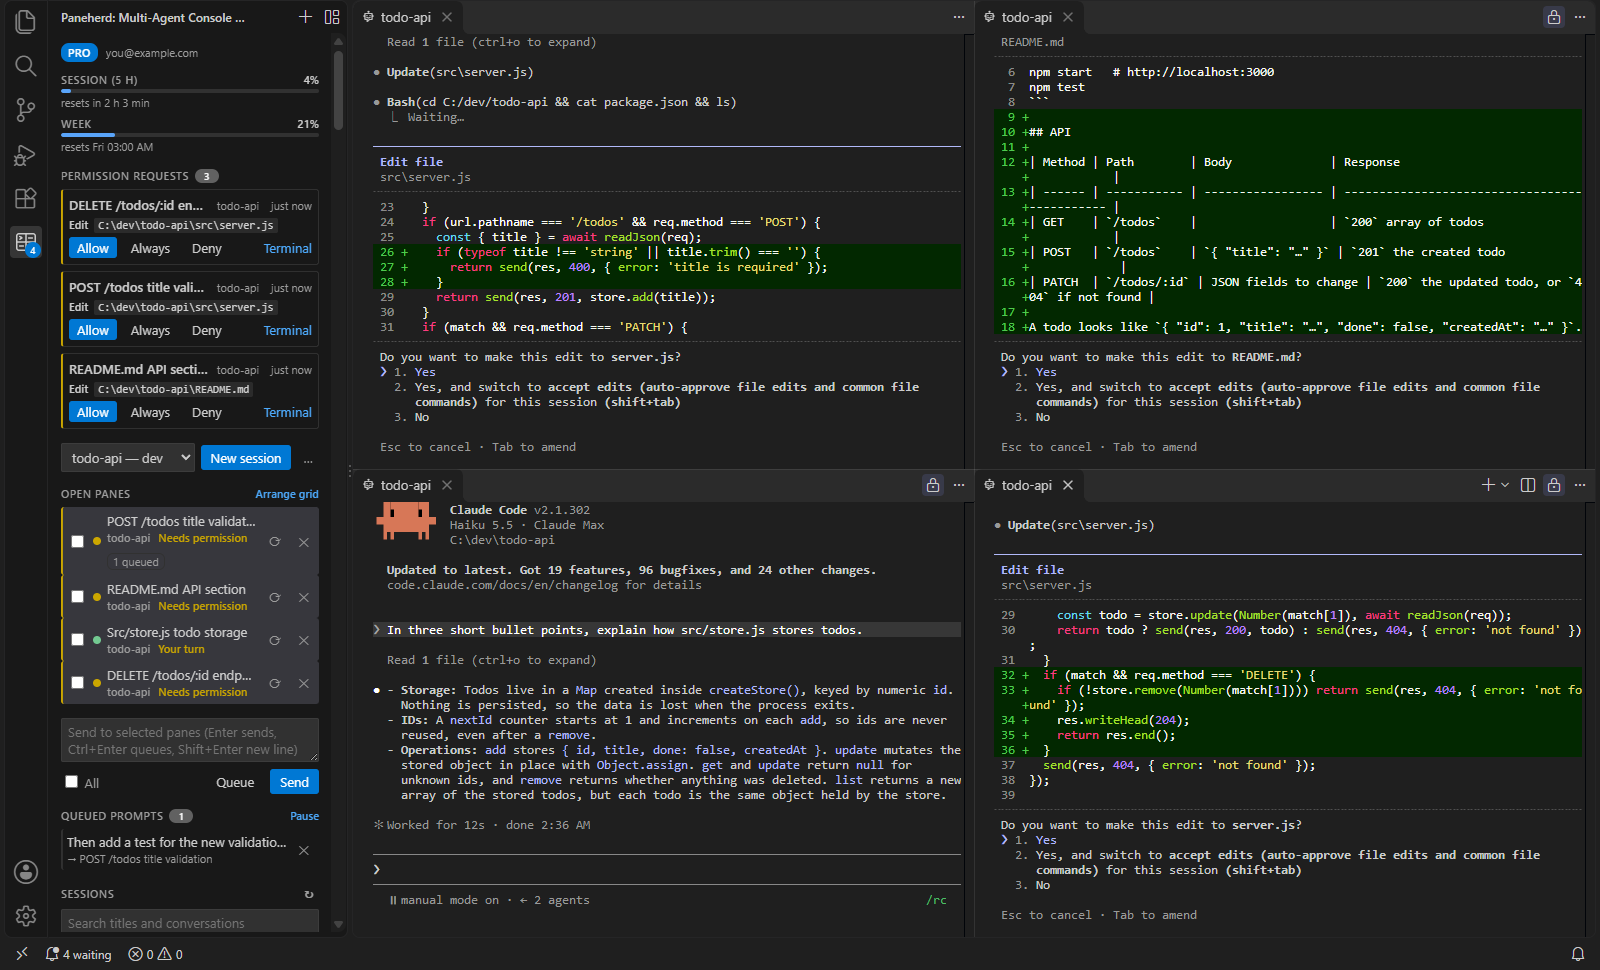
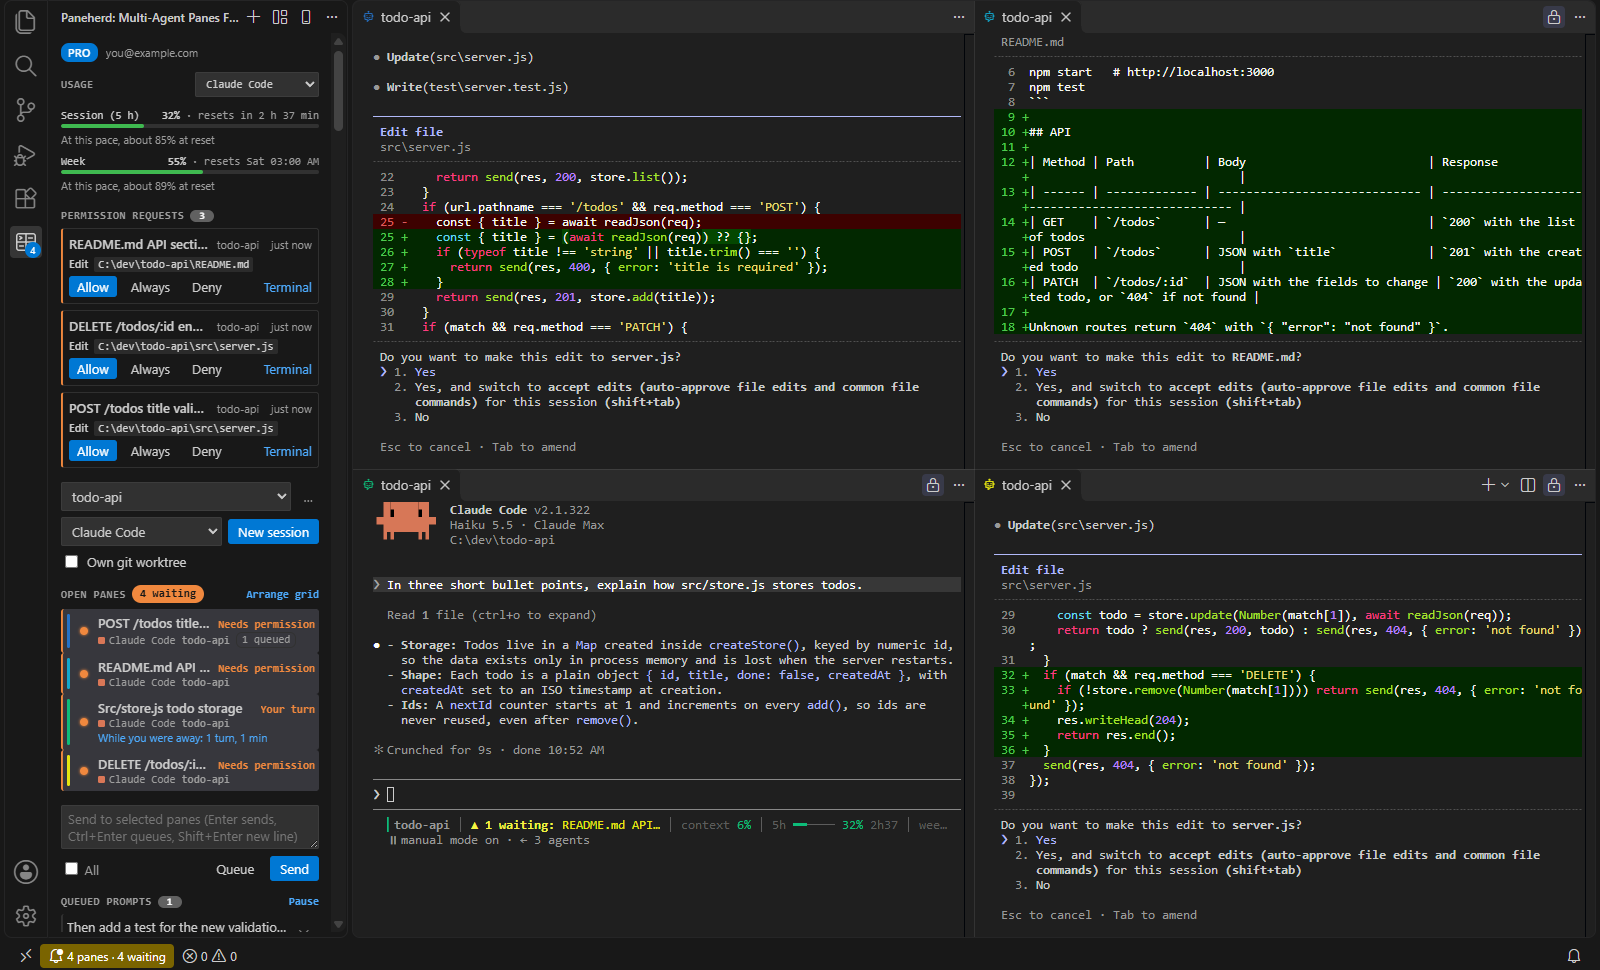
0.16.5: README, changelog and new screenshots and demo GIF
Claude-Session: https://claude.ai/code/session_018CJ6Lc5MSXJ5ZTTantg2qQ

diff --git a/README.md b/README.md
@@ -16,7 +16,8 @@ Website: [paneherd.com](https://paneherd.com/?utm_source=marketplace&utm_medium=
 
 - **Grid of sessions**: new sessions and resumed conversations open as editor-area terminals arranged in 1–4 columns. *Arrange Panes in a Grid* tidies them up at any time.
 - **Live status from Claude Code itself**: each pane shows *Working*, *Needs permission*, *Has a question*, *Your turn* or *Ended*. The status comes from Claude Code hook events, not from guessing at terminal output.
-- **Know who is waiting**: panes that need you are highlighted, counted on the sidebar badge and in the status bar. *Go to Next Pane That Needs You* jumps straight to them.
+- **Know who is waiting**: panes that need you are highlighted, counted on the sidebar badge, next to *Open panes* and in the status bar, which turns to the warning color while one waits. Click the count or run *Go to Next Pane That Needs You* to jump straight to them.
+- **A status line in every Claude Code pane**: the pane's name in its tab color, the other panes waiting for you, how full the context is, the session and week limits, and the model. Paneherd adds it only when neither you nor the project set a `statusLine`.
 - **Every saved conversation**: the sidebar lists your Claude Code sessions with their titles and last prompts, searchable by title, prompt or folder, and by what was said in the conversation. Matching messages appear under each session. It warns before you open a session that may still be running in another window. Filter the list by agent and by one or more project folders with the dropdowns above it.
 - **Usage limits at the top**: the sidebar shows how much of your Claude plan's current session (5 hours) and week you have used, and when each resets. Claude Code reports these to the status line on Pro and Max plans, after a pane's first reply. Codex's limits show under them, read from the session logs Codex keeps on this computer, and Copilot's monthly premium requests once you click *Connect GitHub* (see [How it works](#how-it-works)).
 - **Which pane uses the limit, and when it runs out (forecast: Pro)**: each pane shows roughly how much of the 5-hour session limit it has used. With Pro, a forecast under the session meter says when you hit the limit at the pace of the last 30 minutes, or where you will be when it resets. Both are estimated from the tokens in your local Claude Code transcripts, weighted by API prices. Usage that leaves no transcript on this computer (claude.ai, other machines) is counted against these sessions.
@@ -86,7 +87,7 @@ Pro is a one-time $2.99 purchase with a perpetual license key, sold at [paneherd
 
 Each pane runs `claude` with an extra `--settings` file that Paneherd writes for that pane. The file adds hooks for session start, prompt submit, tool use, permission requests, notifications, stop and session end. Your own hooks and settings stay in effect. The hooks run `curl` directly, without a shell, and post the event to a server inside the editor. That server listens only on `127.0.0.1` and checks a random per-window token.
 
-Two hooks wait for the server's answer: the permission request hook (so the sidebar can decide while Claude's own dialog is up; with no decision within an hour it steps aside) and the pre-tool-use hook (so the conflict guard can ask first). The pane's status line, when Paneherd adds one, posts Claude's status line input, which carries the usage limits. Paneherd adds it only when neither you nor the project set a `statusLine`, so yours is never replaced; with your own status line the limits are not shown.
+Two hooks wait for the server's answer: the permission request hook (so the sidebar can decide while Claude's own dialog is up; with no decision within an hour it steps aside) and the pre-tool-use hook (so the conflict guard can ask first). The pane's status line, when Paneherd adds one, posts Claude's status line input, which carries the usage limits, and prints the line the extension sends back. Paneherd adds it only when neither you nor the project set a `statusLine`, so yours is never replaced; with your own status line the limits are not shown.
 
 The Chrome companion connects to a second server in each editor window, which runs only after you pair a browser. It listens on `127.0.0.1`, on the first free port from 47470 to 47479, and accepts only browser extensions (by their origin) that paired with a one-time code shown in the editor, or that hold the token pairing gave them. *Disconnect Chrome Companions* revokes every browser.
 

diff --git a/CHANGELOG.md b/CHANGELOG.md
@@ -1,5 +1,14 @@
 # Changelog
 
+## 0.16.5
+
+- A new look for the sidebar. Each pane shows its status on the right of its title, in color, and its agent with a colored mark. The usage limits take one line each. Edit, Restart and Close show when you point at a pane, and the checkbox for sending a prompt sits where the status dot is.
+- **2 waiting** next to *Open panes* takes you to the next pane that needs you.
+- Status dots pulse while a pane works and glow while it waits for you. They stay still when your system asks for reduced motion, and high contrast themes get an outline instead of the glow.
+- Claude Code panes get a status line from Paneherd: the pane's name in its tab color, the other panes waiting for you, how full the context is, the session and week limits, and the model. Your own `statusLine` still wins.
+- The status bar counts panes, working panes, panes waiting for you and alarms, and turns to the warning color while a pane waits.
+- New theme colors `paneherd.ready`, `paneherd.working`, `paneherd.waiting` and `paneherd.error`, to change in `workbench.colorCustomizations`.
+
 ## 0.16.4
 
 - The Marketplace description and the top of the README now say what is free (unlimited sessions, notifications, usage limits, phone remote) and what Pro adds. Nothing else changed.
